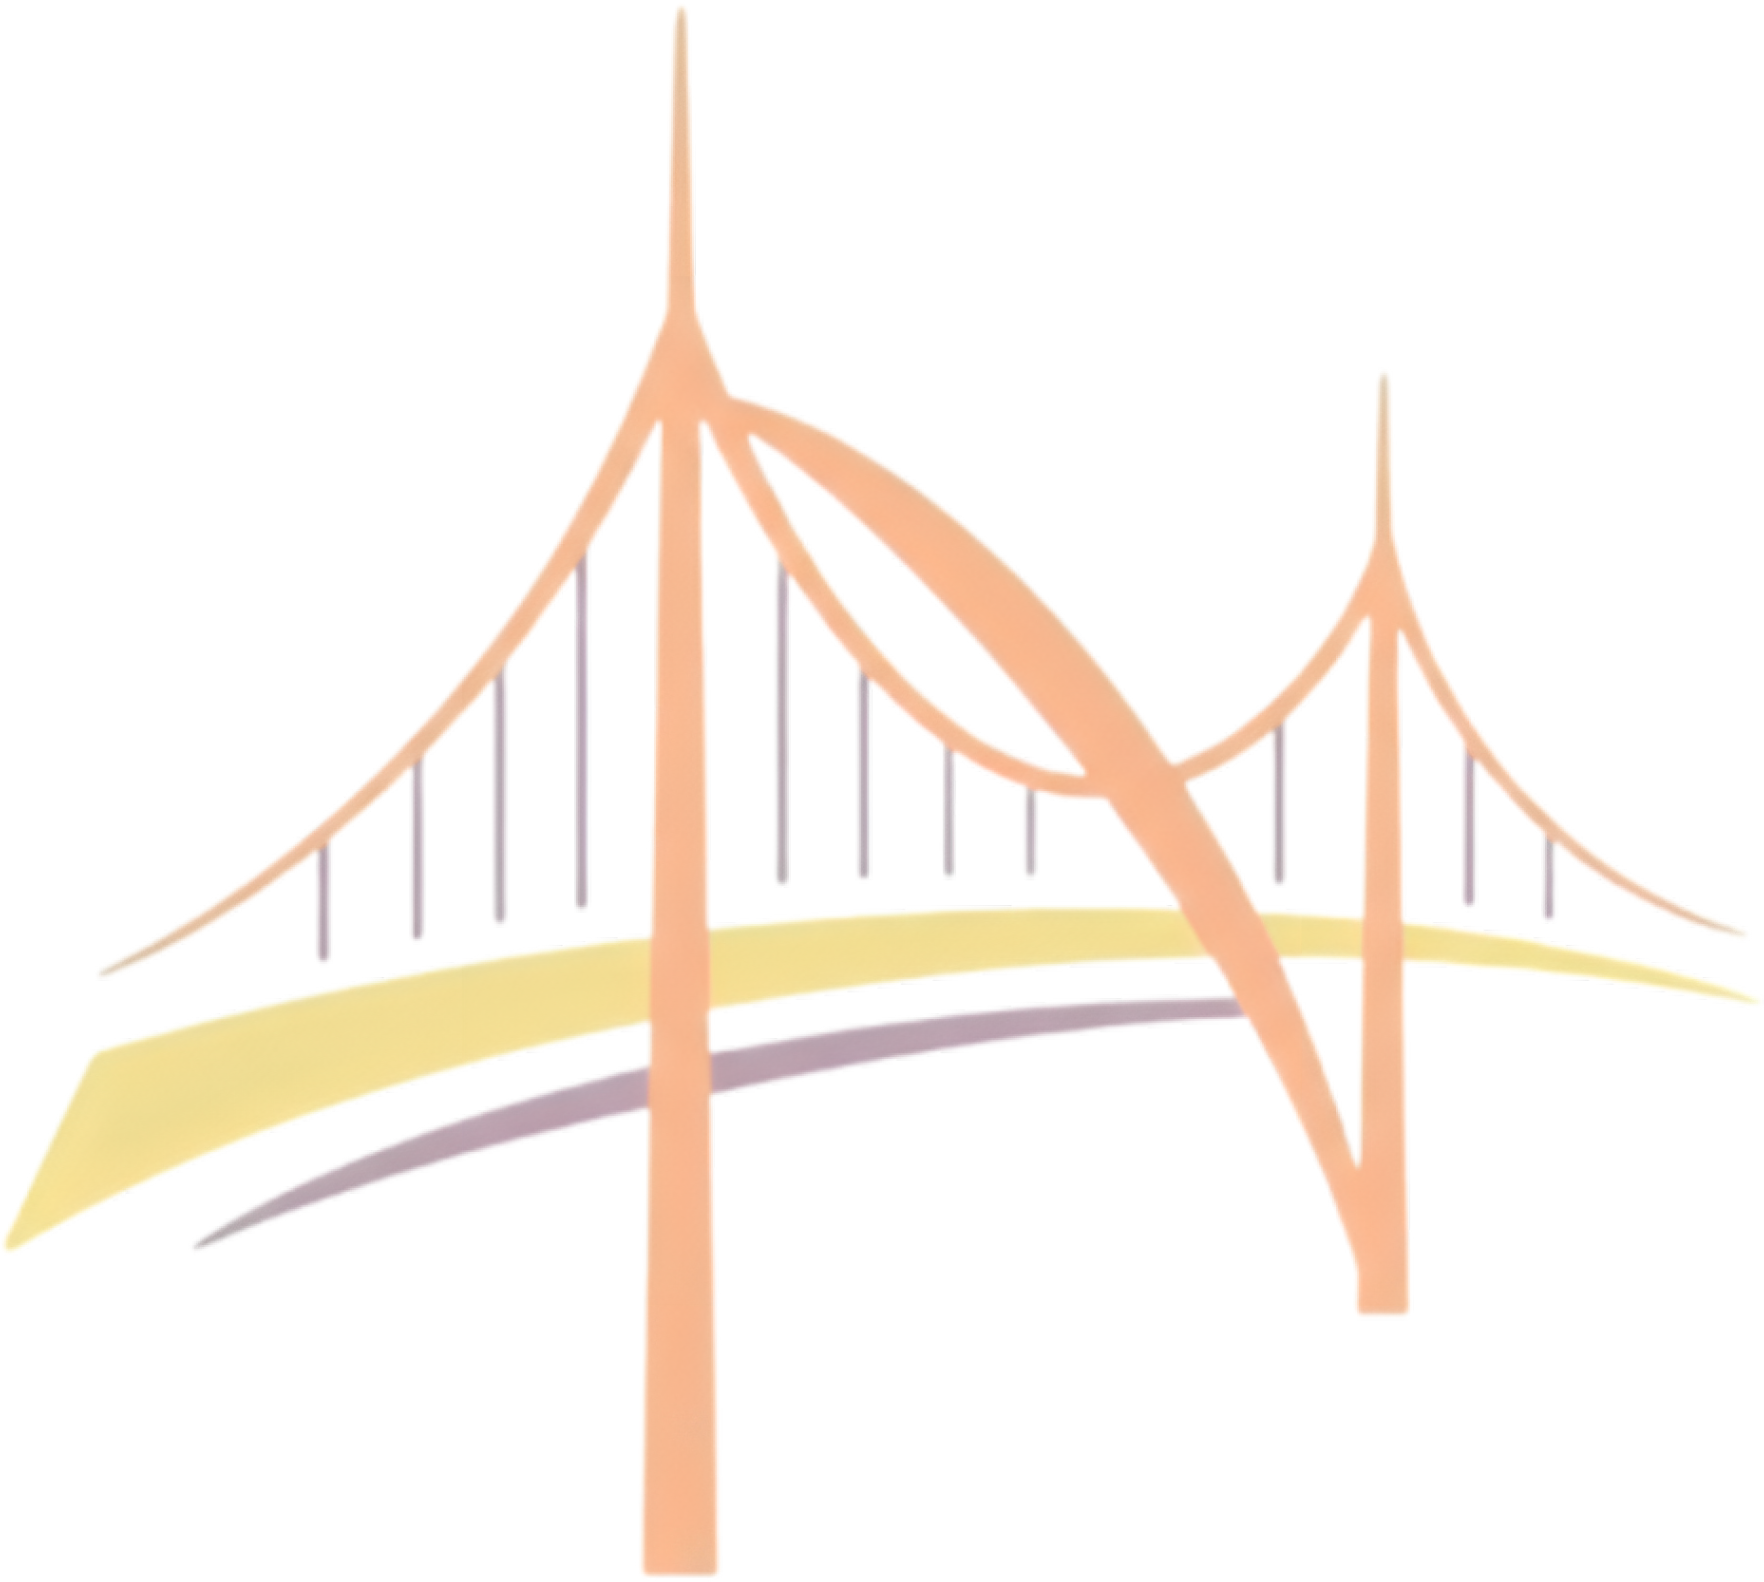
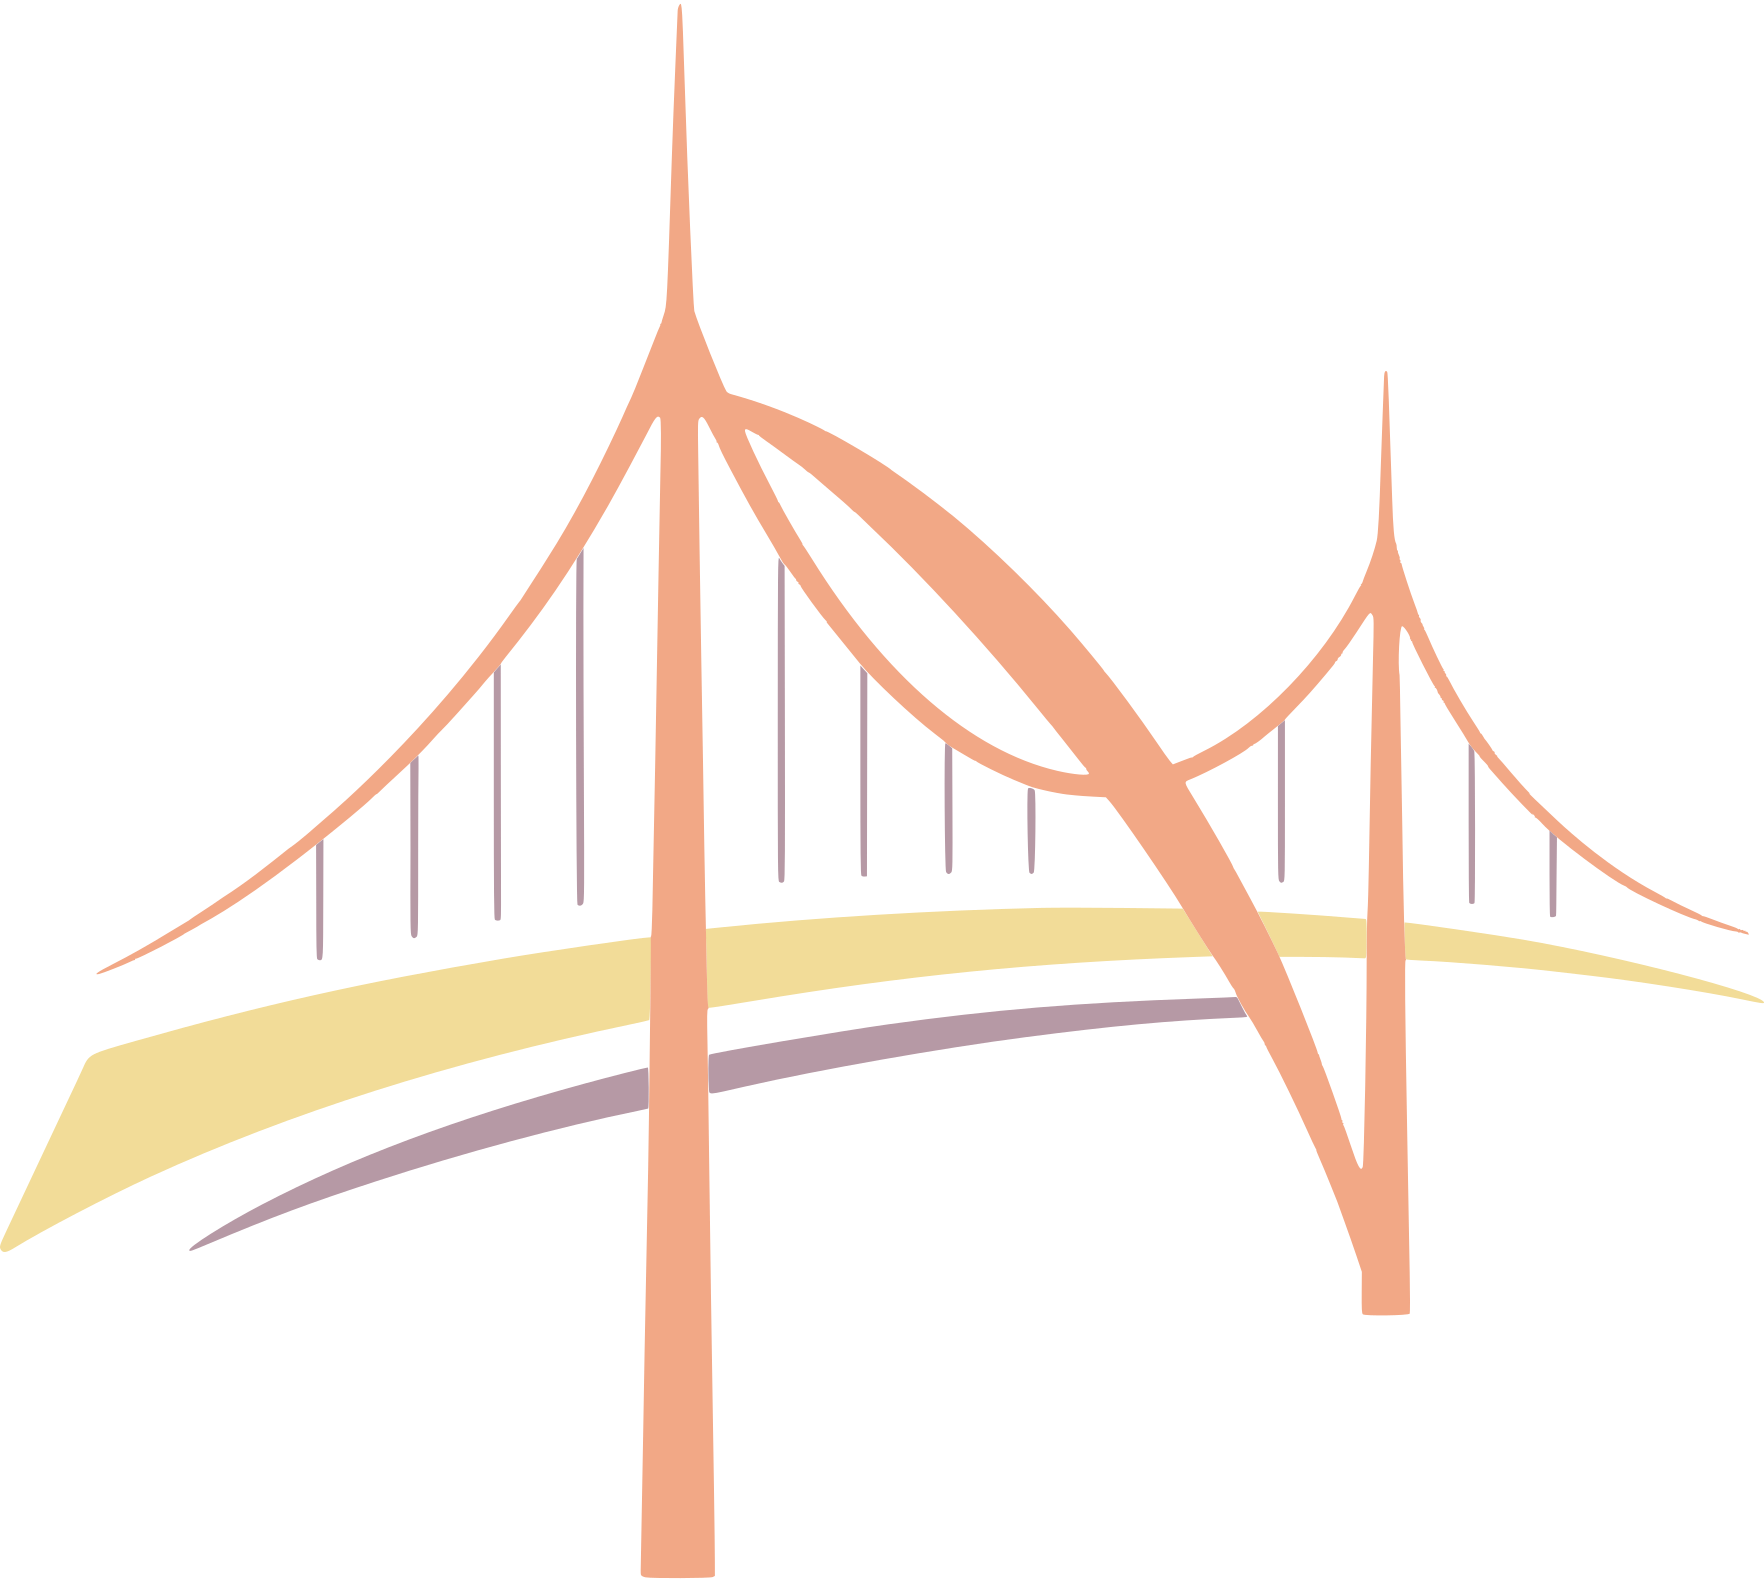
Switch NOVUS wordmark from Syne to Sora, regenerate brand assets
Wordmark.tsx now renders live text in Sora instead of Syne — drops the
scaleX(0.9) compression hack that existed specifically to fix Syne's
unusually wide proportions, since Sora's natural width is already normal.
Applies everywhere the shared component is used (navbar, footer, hero) plus
the portal sidebar label, which had its own separate font-display instance.

Regenerated every icon/wordmark raster in public/brand/ and public/logo.png,
src/app/icon.png from the new vector icon master + a true vector rendering
of "NOVUS" in Sora Bold (glyph outlines via opentype.js, not a screenshot),
replacing assets that had drifted to a blurry upscaled source. Colors
matched exactly to the previous files by sampling their pixels rather than
guessing. Added vector lockup masters to public/brand/source/.

The OG share-image route was quietly rendering the wordmark in Space
Grotesk, never actually in sync with the live Syne mark it was meant to
mirror — now on Sora, matching the real site.

diff --git a/src/components/Wordmark.tsx b/src/components/Wordmark.tsx
@@ -1,33 +1,13 @@
-import { syne } from "@/lib/fonts";
+import { sora } from "@/lib/fonts";
 
 /**
  * The NOVUS wordmark.
- *
- * Syne has no width axis, so "narrower letters" has to come from a horizontal
- * scale rather than a condensed cut. `transform` does not affect layout, so the
- * element would still reserve its full unscaled width and push everything after
- * it — visibly off-centring the hero. The negative inline margin gives that
- * width back.
- *
- * "NOVUS" in Syne 700 advances 4.175em, or 4.095em once -0.02em tracking is
- * applied between the five glyphs. The compensation is half the width lost on
- * each side: (1 - SCALE) * 4.095 / 2. Being em-based it holds at every size.
- * Change SCALE and the margin follows.
  */
-const SCALE = 0.9;
-const WORD_ADVANCE_EM = 4.095;
-const SIDE_MARGIN_EM = -((1 - SCALE) * WORD_ADVANCE_EM) / 2;
-
 export default function Wordmark({ className = "" }: { className?: string }) {
   return (
     <span
-      className={`${syne.className} inline-block font-bold ${className}`}
-      style={{
-        transform: `scaleX(${SCALE})`,
-        transformOrigin: "center",
-        letterSpacing: "-0.02em",
-        marginInline: `${SIDE_MARGIN_EM}em`,
-      }}
+      className={`${sora.className} inline-block font-bold ${className}`}
+      style={{ letterSpacing: "-0.02em" }}
     >
       NOVUS
     </span>

diff --git a/src/app/api/og/route.tsx b/src/app/api/og/route.tsx
@@ -9,8 +9,8 @@ export async function GET(req: NextRequest) {
   const origin = new URL(req.url).origin;
   const bgSrc = `${origin}/hero-nyc-skyline.jpg`;
   const logoSrc = `${origin}/logo.png`;
-  const fontSrc = `${origin}/fonts/SpaceGrotesk-Latin.woff2`;
-  const displayFont = await fetch(fontSrc).then((res) => res.arrayBuffer());
+  const fontSrc = `${origin}/fonts/Sora-Bold-Latin.woff2`;
+  const wordmarkFont = await fetch(fontSrc).then((res) => res.arrayBuffer());
 
   // Exact desktop hero clamp math at 1200px OG width:
   // font-size: clamp(4.8rem, 13.6vw, 9.2rem) => 147.2px
@@ -110,7 +110,7 @@ export async function GET(req: NextRequest) {
                   fontWeight: 700,
                   letterSpacing: "-0.025em", // tracking-tight
                   lineHeight: 1,
-                  fontFamily: "Space Grotesk",
+                  fontFamily: "Sora",
                 }}
               >
                 NOVUS
@@ -125,8 +125,8 @@ export async function GET(req: NextRequest) {
       height: 630,
       fonts: [
         {
-          name: "Space Grotesk",
-          data: displayFont,
+          name: "Sora",
+          data: wordmarkFont,
           weight: 700,
           style: "normal",
         },

diff --git a/src/components/members/MembersLayout.tsx b/src/components/members/MembersLayout.tsx
@@ -9,6 +9,7 @@ import { signOut } from "@/lib/members/supabaseAuth";
 import { useAuth } from "@/lib/members/authContext";
 import { type AuthRole, subscribeSiteSettings } from "@/lib/members/storage";
 import { supabase } from "@/lib/supabaseClient";
+import { sora } from "@/lib/fonts";
 
 // ── NAV ITEM TYPE ─────────────────────────────────────────────────────────────
 
@@ -422,7 +423,7 @@ function MembersLayoutInner({ children }: { children: ReactNode }) {
           {!sidebarCollapsed && (
             <>
               <div className="min-w-0 flex-1">
-                <p className={`font-display font-bold ${tone.sidebarLogoText} text-sm leading-none`}>Novus</p>
+                <p className={`${sora.className} font-bold ${tone.sidebarLogoText} text-sm leading-none`}>Novus</p>
                 <p className={`font-body text-[10px] ${tone.sidebarSubtle} mt-0.5`}>Members Portal</p>
               </div>
               <button

diff --git a/src/lib/fonts.ts b/src/lib/fonts.ts
@@ -1,11 +1,11 @@
-import { Syne } from "next/font/google";
+import { Sora } from "next/font/google";
 
 /**
  * Wordmark-only face. The site's headings stay on Space Grotesk (`font-display`);
- * Syne is loaded solely for the NOVUS lockup so the logo has its own voice
+ * Sora is loaded solely for the NOVUS lockup so the logo has its own voice
  * without repainting every heading.
  */
-export const syne = Syne({
+export const sora = Sora({
   subsets: ["latin"],
   weight: ["700"],
   display: "swap",

diff --git a/src/app/layout.tsx b/src/app/layout.tsx
@@ -52,8 +52,8 @@ export const metadata: Metadata = {
     images: ["/api/og"],
   },
   icons: {
-    icon: "/icon.png?v=bridge-logo-20260803",
-    apple: "/icon.png?v=bridge-logo-20260803",
+    icon: "/icon.png?v=sora-wordmark-20260811",
+    apple: "/icon.png?v=sora-wordmark-20260811",
   },
   appleWebApp: {
     title: "Novus NYC",
